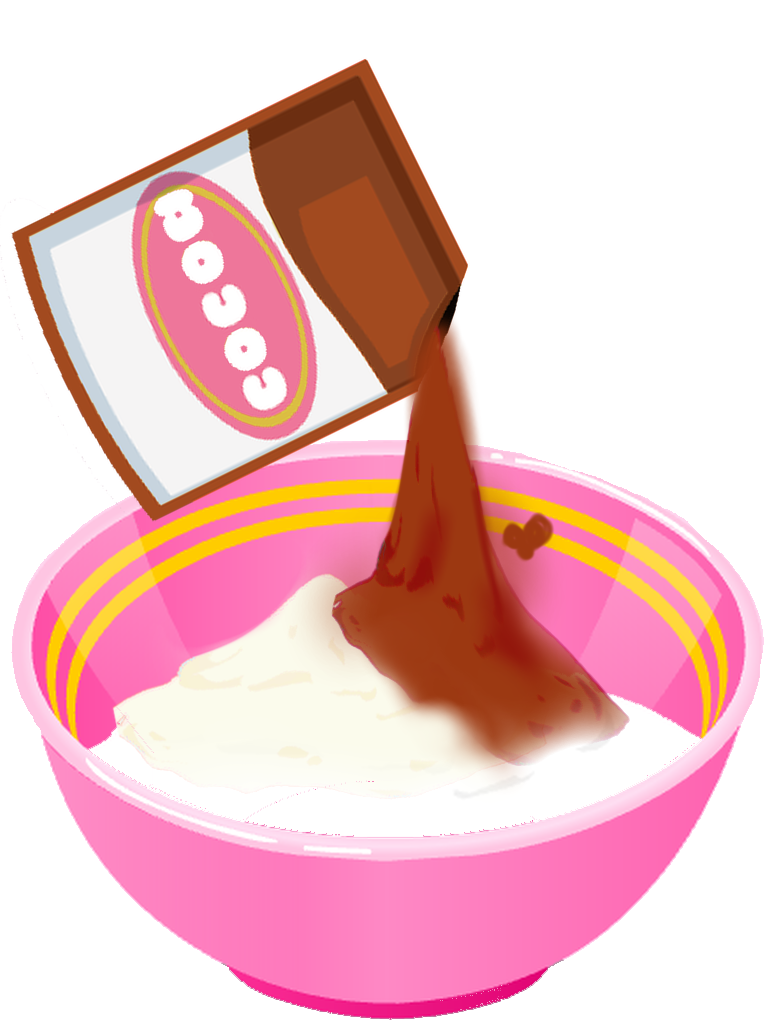
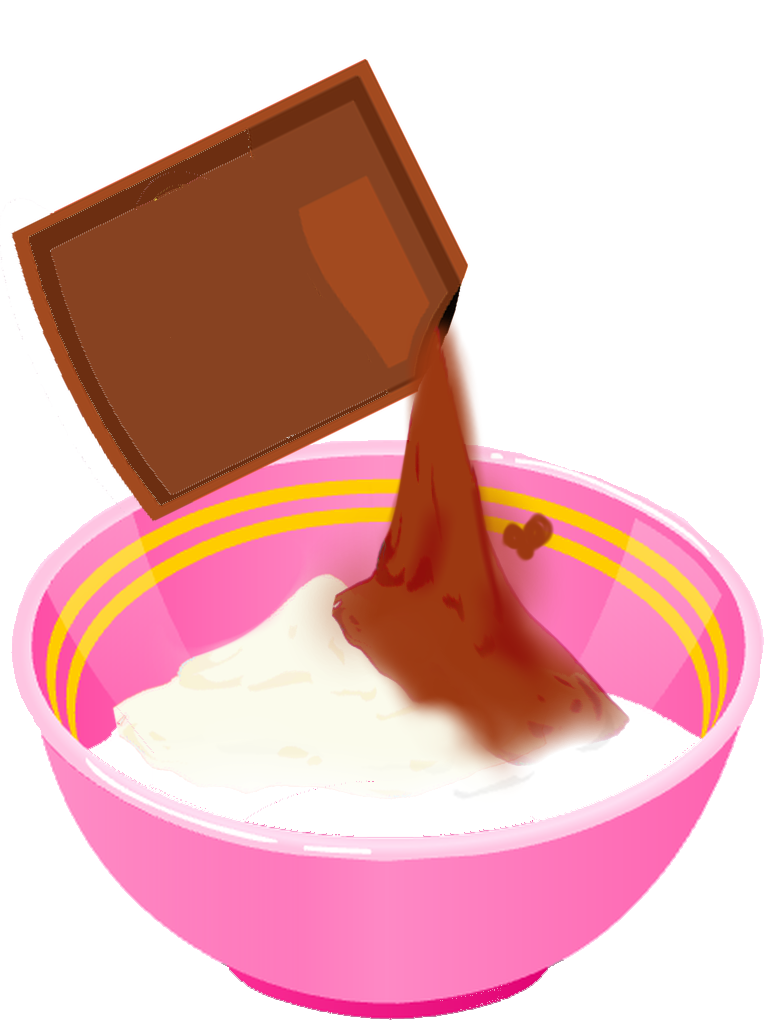
buttons look nice now i think

Changed region(s): [[0.0312, 0.125, 0.5, 0.5]]

diff --git a/ALegjobbSutosJatekProjekt/DecoratingGame.xaml b/ALegjobbSutosJatekProjekt/DecoratingGame.xaml
@@ -18,16 +18,47 @@
             </Grid.ColumnDefinitions>
 
             <StackPanel Orientation="Vertical" VerticalAlignment="Center">
-                <Button  Click="Loader_Click" x:Name="top_loader" Margin="0 3pt" Height="30pt" FontFamily="Gill Sans Ultra Bold" FontSize="20" Content="1" Foreground="White" Background="HotPink" BorderBrush="White"></Button>
-                <Button  Click="Loader_Click" x:Name="topside_loader" Margin="0 3pt" Height="30pt" FontFamily="Gill Sans Ultra Bold" FontSize="20" Content="2" Foreground="White" Background="HotPink" BorderBrush="White"></Button>
-                <Button  Click="Loader_Click" x:Name="midside_loader" Margin="0 3pt" Height="30pt" FontFamily="Gill Sans Ultra Bold" FontSize="20" Content="3" Foreground="White" Background="HotPink" BorderBrush="White"></Button>
-                <Button  Click="Loader_Click" x:Name="bottomside_loader" Margin="0 3pt" Height="30pt" FontFamily="Gill Sans Ultra Bold" FontSize="20" Content="4" Foreground="White" Background="HotPink" BorderBrush="White"></Button>
-                <Button  Click="Loader_Click" x:Name="topfrosting_loader" Margin="0 3pt" Height="30pt" FontFamily="Gill Sans Ultra Bold" FontSize="20" Content="5" Foreground="White" Background="HotPink" BorderBrush="White"></Button>
-                <Button  Click="Loader_Click" x:Name="coveringcolor_loader" Margin="0 3pt" Height="30pt" FontFamily="Gill Sans Ultra Bold" FontSize="20" Content="6" Foreground="White" Background="HotPink" BorderBrush="White"></Button>
-                <Button  Click="Loader_Click" x:Name="stand_loader" Margin="0 3pt" Height="30pt" FontFamily="Gill Sans Ultra Bold" FontSize="20" Content="7" Foreground="White" Background="HotPink" BorderBrush="White"></Button>
+                <Button  Click="Loader_Click" x:Name="top_loader" Margin="0 3pt" Height="30pt" FontFamily="Gill Sans Ultra Bold" FontSize="20" Content="1" Foreground="White" BorderBrush="White" Style="{StaticResource GameButtonStyle}" >
+                    <Button.Background>
+                        <ImageBrush ImageSource="/squarebutton.png"/>
+                    </Button.Background>
+                </Button>
+                <Button  Click="Loader_Click" x:Name="topside_loader" Margin="0 3pt" Height="30pt" FontFamily="Gill Sans Ultra Bold" FontSize="20" Content="2" Foreground="White" BorderBrush="White" Style="{StaticResource GameButtonStyle}">
+                    <Button.Background>
+                        <ImageBrush ImageSource="/otherassets/squarebutton.png"/>
+                    </Button.Background>
+                </Button>
+                <Button  Click="Loader_Click" x:Name="midside_loader" Margin="0 3pt" Height="30pt" FontFamily="Gill Sans Ultra Bold" FontSize="20" Content="3" Foreground="White" BorderBrush="White" Style="{StaticResource GameButtonStyle}">
+                    <Button.Background>
+                        <ImageBrush ImageSource="/otherassets/squarebutton.png"/>
+                    </Button.Background>
+                </Button>
+                <Button  Click="Loader_Click" x:Name="bottomside_loader" Margin="0 3pt" Height="30pt" FontFamily="Gill Sans Ultra Bold" FontSize="20" Content="4" Foreground="White" BorderBrush="White" Style="{StaticResource GameButtonStyle}">
+                    <Button.Background>
+                        <ImageBrush ImageSource="/otherassets/squarebutton.png"/>
+                    </Button.Background>
+                </Button>
+                <Button  Click="Loader_Click" x:Name="topfrosting_loader" Margin="0 3pt" Height="30pt" FontFamily="Gill Sans Ultra Bold" FontSize="20" Content="5" Foreground="White" BorderBrush="White" Style="{StaticResource GameButtonStyle}">
+                    <Button.Background>
+                        <ImageBrush ImageSource="/otherassets/squarebutton.png"/>
+                    </Button.Background>
+                </Button>
+                <Button  Click="Loader_Click" x:Name="coveringcolor_loader" Margin="0 3pt" Height="30pt" FontFamily="Gill Sans Ultra Bold" FontSize="20" Content="6" Foreground="White" BorderBrush="White" Style="{StaticResource GameButtonStyle}">
+                    <Button.Background>
+                        <ImageBrush ImageSource="/otherassets/squarebutton.png"/>
+                    </Button.Background>
+                </Button>
+                <Button  Click="Loader_Click" x:Name="stand_loader" Margin="0 3pt" Height="30pt" FontFamily="Gill Sans Ultra Bold" FontSize="20" Content="7" Foreground="White" BorderBrush="White" Style="{StaticResource GameButtonStyle}">
+                    <Button.Background>
+                        <ImageBrush ImageSource="/otherassets/squarebutton.png"/>
+                    </Button.Background>
+                </Button>
             </StackPanel>
 
-            <ListBox x:Name="decorListing" SelectionChanged="decorListing_SelectionChanged"  Margin="0 15pt 15pt 15pt" Grid.Column="1" ScrollViewer.VerticalScrollBarVisibility="Auto" Background="HotPink" BorderBrush="White">
+            <ListBox x:Name="decorListing" SelectionChanged="decorListing_SelectionChanged"  Margin="5pt 0 0 0" Grid.Column="1" ScrollViewer.VerticalScrollBarVisibility="Auto" BorderBrush="{x:Null}" ItemContainerStyle="{StaticResource ListBoxHoverer}">
+                <ListBox.Background>
+                    <ImageBrush ImageSource="/lbbg.png"/>
+                </ListBox.Background>
 
                 <ListBox.ItemsPanel>
                     <ItemsPanelTemplate>
@@ -62,7 +93,7 @@
 
             <Image x:Name="stand_frame" Grid.Column="2" Panel.ZIndex="0" Margin="15pt" Source="/decorassets/stand/stand_1.png" Stretch="Uniform"/>
 
-            <Button Padding="10" Grid.Column="3" VerticalAlignment="Bottom" Click="Outro_Click" x:Name="outro"  FontFamily="Gill Sans Ultra Bold" FontSize="20" Content="Finish" Foreground="White" BorderBrush="{x:Null}">
+            <Button Height="30pt" Grid.Column="3" VerticalAlignment="Bottom" Click="Outro_Click" x:Name="outro"  FontFamily="Gill Sans Ultra Bold" FontSize="15" Content="Finish" Foreground="White" BorderBrush="{x:Null}" Style="{StaticResource GameButtonStyle}">
                 <Button.Background>
                     <ImageBrush ImageSource="/otherassets/morebutton.PNG"/>
                 </Button.Background>

diff --git a/ALegjobbSutosJatekProjekt/App.xaml b/ALegjobbSutosJatekProjekt/App.xaml
@@ -47,5 +47,56 @@
                 </Setter.Value>
             </Setter>
         </Style>
+
+        <Style x:Key="ListBoxHoverer" TargetType="ListBoxItem">
+            <Setter Property="Cursor" Value="Hand"/>
+            <Setter Property="Template">
+                <Setter.Value>
+                    <ControlTemplate TargetType="ListBoxItem">
+                        <Border x:Name="border"
+                        Background="{TemplateBinding Background}"
+                        RenderTransformOrigin="0.5,0.5">
+
+                            <Border.RenderTransform>
+                                <ScaleTransform ScaleX="1" ScaleY="1"/>
+                            </Border.RenderTransform>
+
+                            <ContentPresenter HorizontalAlignment="Center"
+                                      VerticalAlignment="Center"/>
+                        </Border>
+
+                        <ControlTemplate.Triggers>
+
+                            <EventTrigger RoutedEvent="MouseEnter">
+                                <BeginStoryboard>
+                                    <Storyboard>
+                                        <DoubleAnimation Storyboard.TargetName="border"
+                                    Storyboard.TargetProperty="(RenderTransform).ScaleX"
+                                    To="1.1" Duration="0:0:0.001"/>
+                                        <DoubleAnimation Storyboard.TargetName="border"
+                                    Storyboard.TargetProperty="(RenderTransform).ScaleY"
+                                    To="1.1" Duration="0:0:0.001"/>
+                                    </Storyboard>
+                                </BeginStoryboard>
+                            </EventTrigger>
+
+                            <EventTrigger RoutedEvent="MouseLeave">
+                                <BeginStoryboard>
+                                    <Storyboard>
+                                        <DoubleAnimation Storyboard.TargetName="border"
+                                    Storyboard.TargetProperty="(RenderTransform).ScaleX"
+                                    To="1" Duration="0:0:0.001"/>
+                                        <DoubleAnimation Storyboard.TargetName="border"
+                                    Storyboard.TargetProperty="(RenderTransform).ScaleY"
+                                    To="1" Duration="0:0:0.001"/>
+                                    </Storyboard>
+                                </BeginStoryboard>
+                            </EventTrigger>
+
+                        </ControlTemplate.Triggers>
+                    </ControlTemplate>
+                </Setter.Value>
+            </Setter>
+        </Style>
     </Application.Resources>
 </Application>

diff --git a/ALegjobbSutosJatekProjekt/IntroPage.xaml.cs b/ALegjobbSutosJatekProjekt/IntroPage.xaml.cs
@@ -50,8 +50,8 @@ namespace ALegjobbSutosJatekProjekt
         }
 
         private void Play_Click(object sender, RoutedEventArgs e) { 
-               NavigationService.Navigate(new TransitionPage());
-               //NavigationService.Navigate(new DecoratingGame());
+               //NavigationService.Navigate(new TransitionPage());
+               NavigationService.Navigate(new DecoratingGame());
         }
 
 
